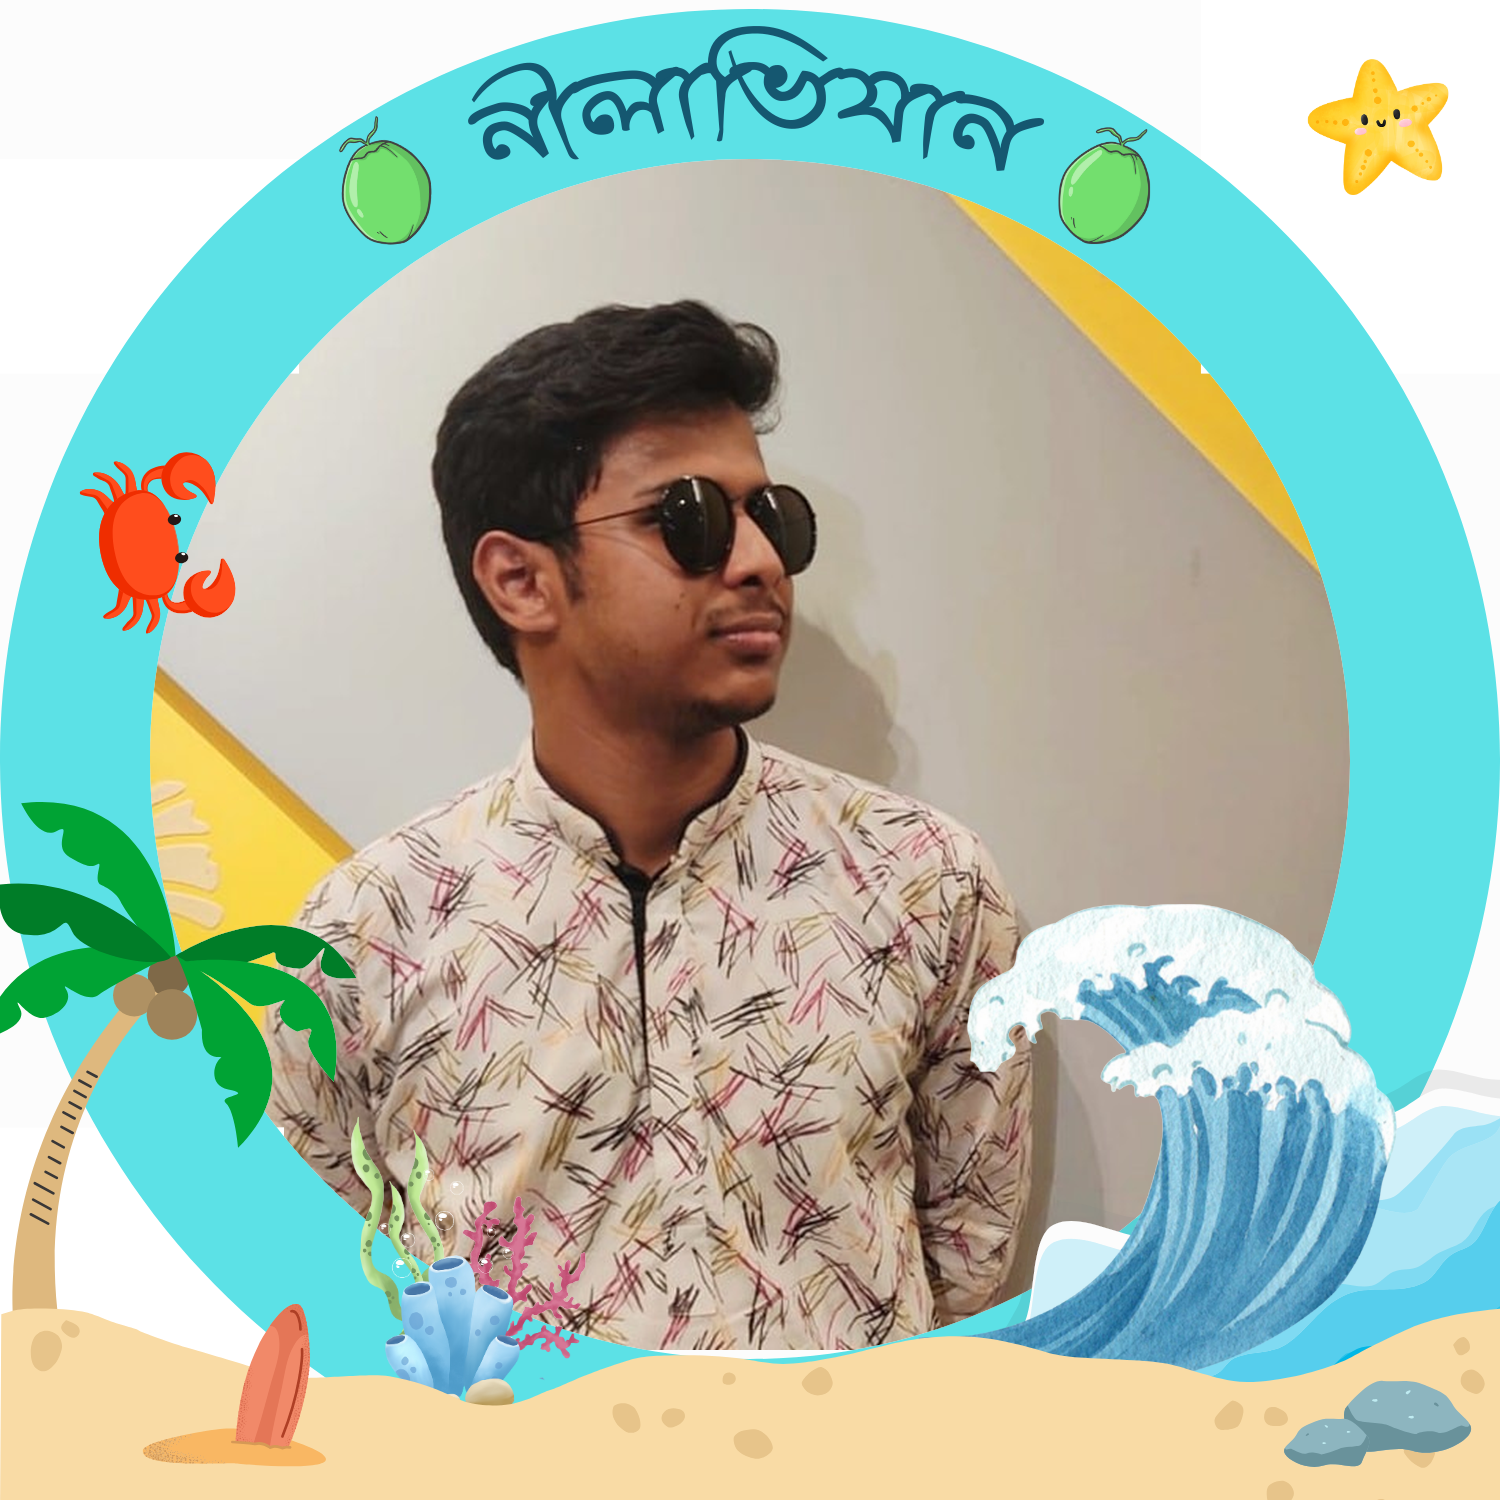
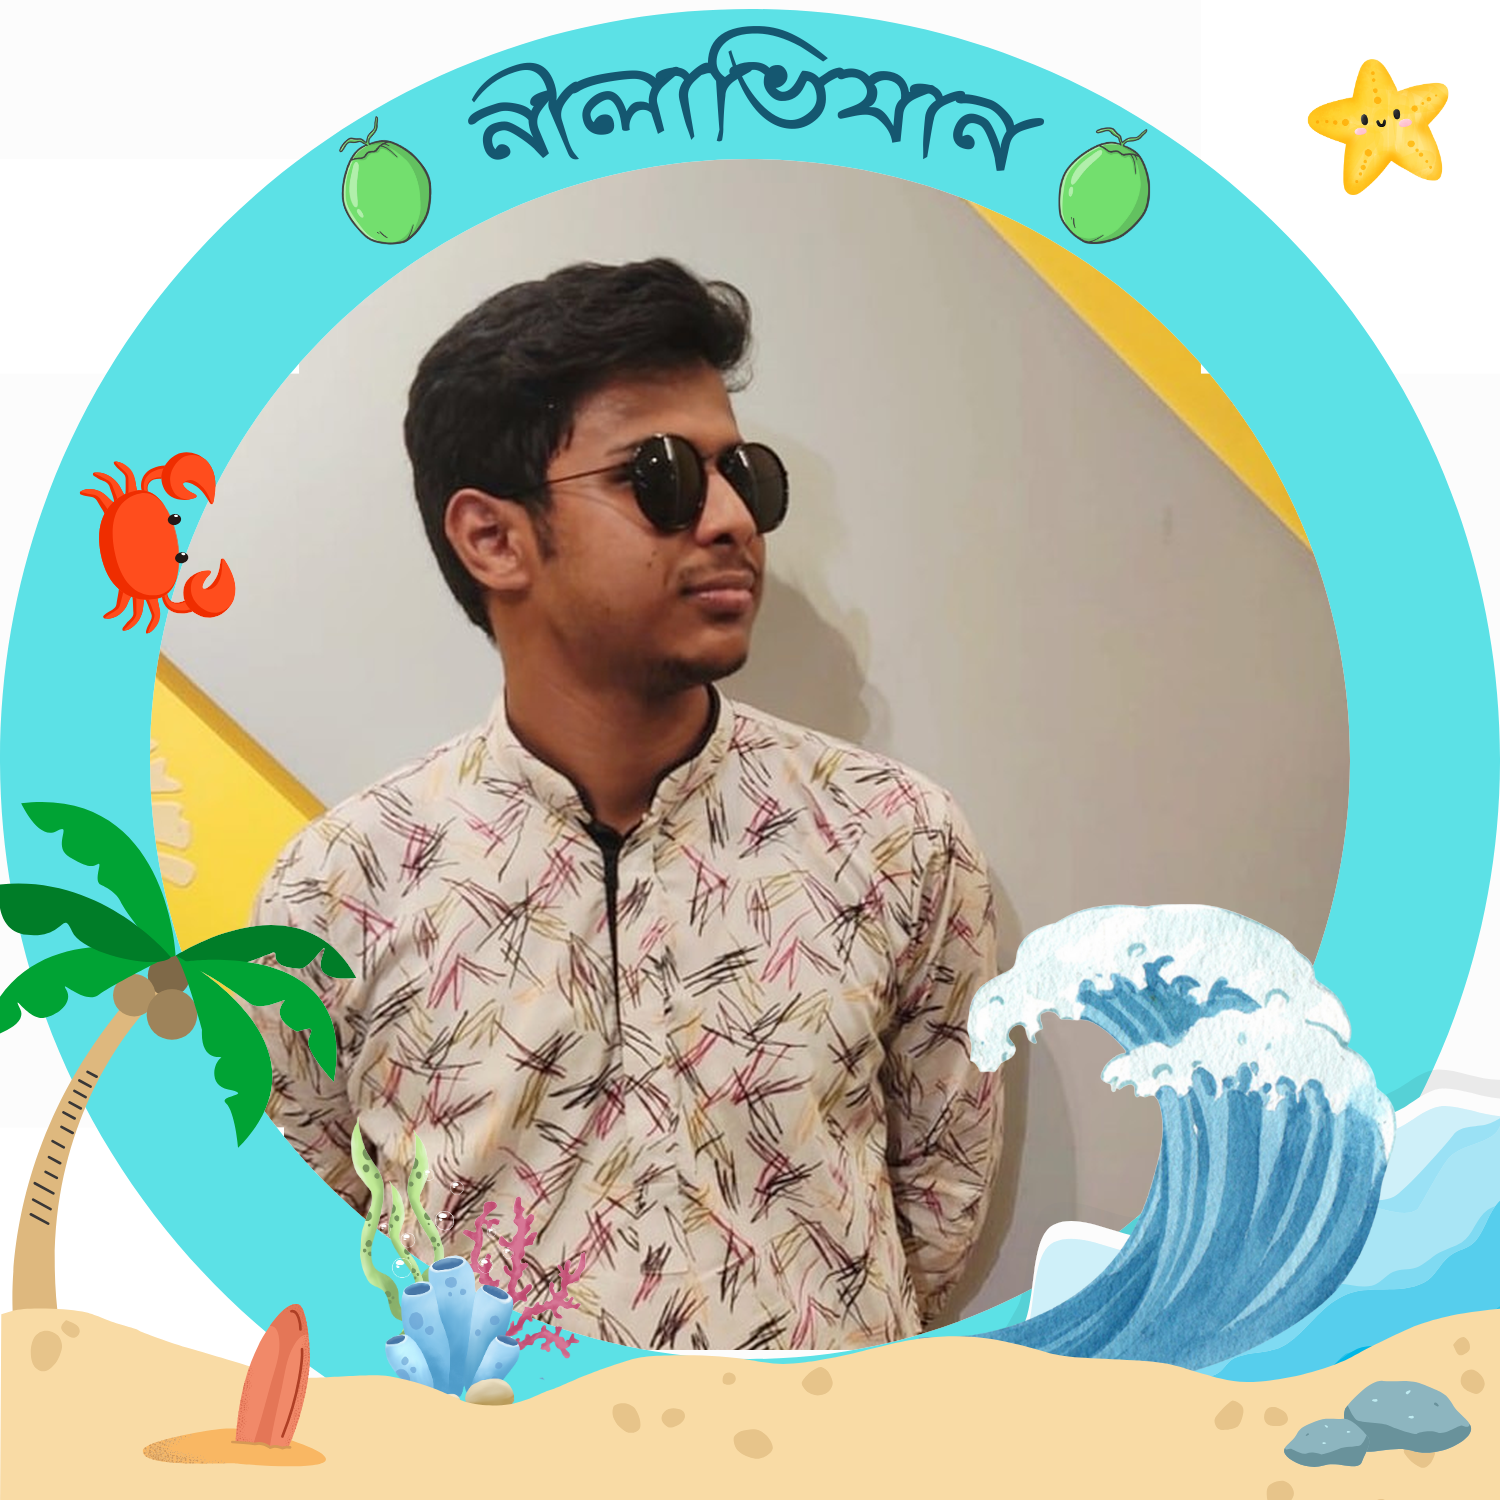
Pixel made ok

Changed region(s): [[0.092, 0.1533, 0.7053, 0.92], [0.6133, 0.1227, 0.8893, 0.368]]

diff --git a/templates/index.html b/templates/index.html
@@ -5,61 +5,165 @@
     <meta name="viewport" content="width=device-width, initial-scale=1.0">
     <title>Image Adjustment</title>
     <style>
+        * {
+            margin: 0;
+            padding: 0;
+            box-sizing: border-box;
+        }
+
+        body {
+            font-family: 'Arial', sans-serif;
+            background-color: #f4f8fb;
+            color: #333;
+            padding: 20px;
+        }
+
+        h1 {
+            text-align: center;
+            color: #1a73e8;
+            margin-bottom: 20px;
+        }
+
+        form {
+            display: flex;
+            justify-content: center;
+            gap: 10px;
+            margin-bottom: 20px;
+        }
+
+        form input[type="file"] {
+            padding: 10px;
+            border: 2px solid #1a73e8;
+            border-radius: 5px;
+            cursor: pointer;
+        }
+
+        form button {
+            background-color: #1a73e8;
+            color: white;
+            padding: 10px 20px;
+            border: none;
+            border-radius: 5px;
+            cursor: pointer;
+            font-size: 16px;
+        }
+
+        form button:hover {
+            background-color: #1558b3;
+        }
+
         #frame-container {
             position: relative;
             width: 500px;
             height: 500px;
-            margin: auto;
+            margin: 20px auto;
+            border: 2px solid #1a73e8;
+            border-radius: 10px;
+            overflow: hidden;
+            background-color: white;
+            box-shadow: 0 4px 6px rgba(0, 0, 0, 0.1);
         }
+
         #static-frame {
             position: absolute;
             top: 0;
             left: 0;
-            z-index: 2;
             width: 100%;
             height: 100%;
+            z-index: 2;
         }
+
         #uploaded-image {
             position: absolute;
             top: 0;
             left: 0;
-            z-index: 1;
             width: 100%;
             height: 100%;
+            z-index: 1;
+        }
+
+        .controls {
+            display: flex;
+            justify-content: center;
+            gap: 15px;
+            margin: 20px 0;
+        }
+
+        .controls button {
+            background-color: #1a73e8;
+            color: white;
+            padding: 10px 15px;
+            border: none;
+            border-radius: 5px;
+            cursor: pointer;
+            font-size: 16px;
+        }
+
+        .controls button:hover {
+            background-color: #1558b3;
+        }
+
+        .download-container {
+            text-align: center;
+        }
+
+        .download-container button {
+            background-color: #1a73e8;
+            color: white;
+            padding: 10px 20px;
+            border: none;
+            border-radius: 5px;
+            cursor: pointer;
+            font-size: 16px;
+        }
+
+        .download-container button:hover {
+            background-color: #1558b3;
         }
     </style>
 </head>
 <body>
     <h1>Image Adjustment</h1>
+
     <form method="post" enctype="multipart/form-data">
-        <label>Upload your image:</label>
         <input type="file" name="file" required>
         <button type="submit">Upload</button>
     </form>
+
     {% if uploaded_image %}
     <div id="frame-container">
         <img id="static-frame" src="/static/Frammed_image.png" alt="Frame">
         <img id="uploaded-image" src="/static/uploads/{{ uploaded_image }}" alt="Uploaded Image">
     </div>
-    <div>
-        <button onclick="adjustImage()">Adjust</button>
+
+    <div class="controls">
+        <button onclick="moveImage('up')">Up</button>
+        <button onclick="moveImage('left')">Left</button>
+        <button onclick="moveImage('right')">Right</button>
+        <button onclick="moveImage('down')">Down</button>
+    </div>
+
+    <div class="download-container">
+        <button onclick="adjustImage()">Save Adjustments</button>
         <a href="/download"><button>Download</button></a>
     </div>
     {% endif %}
+
     <script>
         let offsetX = 0, offsetY = 0;
         const uploadedImage = document.getElementById('uploaded-image');
 
-        function adjustImage() {
-            // Allow adjustments with arrow keys
-            document.addEventListener('keydown', (e) => {
-                if (e.key === 'ArrowUp') offsetY -= 5;
-                if (e.key === 'ArrowDown') offsetY += 5;
-                if (e.key === 'ArrowLeft') offsetX -= 5;
-                if (e.key === 'ArrowRight') offsetX += 5;
-                uploadedImage.style.transform = `translate(${offsetX}px, ${offsetY}px)`;
-            });
+        function moveImage(direction) {
+            const step = 1;
+            if (direction === 'up') offsetY -= step;
+            if (direction === 'down') offsetY += step;
+            if (direction === 'left') offsetX -= step;
+            if (direction === 'right') offsetX += step;
 
+            uploadedImage.style.transform = `translate(${offsetX}px, ${offsetY}px)`;
+        }
+
+        function adjustImage() {
             fetch('/adjust', {
                 method: 'POST',
                 headers: { 'Content-Type': 'application/json' },

diff --git a/backend.py b/backend.py
@@ -32,34 +32,64 @@ def adjust():
     image_path = os.path.join(UPLOAD_FOLDER, data["uploaded_image"])
     output_path = os.path.join(OUTPUT_FOLDER, "output.png")
 
-    frame_image = Image.open(STATIC_FRAME).convert("RGBA")
-    user_image = Image.open(image_path).convert("RGBA")
+    try:
+        # Load frame and user images
+        frame_image = Image.open(STATIC_FRAME).convert("RGBA")
+        user_image = Image.open(image_path).convert("RGBA")
 
-    # Resize user image to fit the frame dimensions
-    user_image = user_image.resize(frame_image.size, Image.Resampling.LANCZOS)
+        # Resize user image to match the frame dimensions
+        user_image = user_image.resize(frame_image.size, Image.Resampling.LANCZOS)
 
-    # Get adjustment offsets
-    offset_x = int(data.get("offsetX", 0))
-    offset_y = int(data.get("offsetY", 0))
+        # Get adjustment offsets
+        offset_x = int(data.get("offsetX", 0))*2
+        offset_y = int(data.get("offsetY", 0))*2
+        if offset_x > 0:
+            offset_x += 8
+        elif offset_x < 0:
+            offset_x -= 8
 
-    # Create a blank canvas with the same size as the frame
-    combined = Image.new("RGBA", frame_image.size)
+        if offset_y > 0:
+            offset_y += 8
+        elif offset_y < 0:
+            offset_y -= 8
+        # Create a blank canvas with transparency
+        combined = Image.new("RGBA", frame_image.size, (255, 255, 255, 0))
 
-    # Paste the user image at the adjusted position
-    combined.paste(user_image, (offset_x, offset_y), user_image)
+        # Paste the user image at the adjusted position
+        combined.paste(user_image, (offset_x, offset_y), user_image)
 
-    # Overlay the frame on top
-    combined.paste(frame_image, (0, 0), frame_image)
+        # Overlay the frame on top
+        combined.paste(frame_image, (0, 0), frame_image)
 
-    # Save the final combined image
-    combined.save(output_path, "PNG")
+        # Placeholder: Trigger a popup on the front-end here
+        # Example: Call a JavaScript function to show a "Saving..." message
 
-    return {"output_image": "/" + output_path}
+        if os.path.exists(output_path):
+            os.remove(output_path)
+            print(f"{output_path} has been deleted.")
+        else:
+            print(f"{output_path} does not exist.")
+        # Save the final combined image
+        combined.save(output_path, "PNG")
+
+        # Debugging info
+        print(f"Offsets: X={offset_x}, Y={offset_y}")
+        print(f"Output saved at: {output_path}")
+
+        return {"success": True, "output_image": "/" + output_path}
+    except Exception as e:
+        print(f"Error during adjustment: {e}")
+        return {"success": False, "error": str(e)}
+
+
+
 
 @app.route("/download")
 def download():
     output_path = os.path.join(OUTPUT_FOLDER, "output.png")
+    print(output_path)
+    if not os.path.exists(output_path):
+        return "No adjusted image available for download."
     return send_file(output_path, as_attachment=True)
-
 if __name__ == "__main__":
     app.run(debug=True)

diff --git a/test.py b/test.py
@@ -1,0 +1,29 @@
+from PIL import Image
+
+# Open the base and overlay images
+base_img = Image.open('test_image_directory/original_image.png').convert('RGBA')
+combined = Image.open('test_image_directory/White screen.png').convert('RGBA')
+overlay_img = Image.open('test_image_directory/Frammed_image.png').convert('RGBA')
+import os
+
+# combined.paste(overlay_img, position, overlay_img)
+# Convert the overlay image to RGBA mode
+
+# base_img = base_img.resize(overlay_img.size, Image.Resampling.LANCZOS)
+
+# Define the position where the overlay image will be pasted
+position = (1000, 50)
+
+# Overlay the image over base image
+combined.paste(base_img, position, base_img)
+# combined.paste(overlay_img, (0, 0), overlay_img)
+file_path = 'overlayed_image.png'
+
+# Check if the file exists before deleting
+if os.path.exists(file_path):
+    os.remove(file_path)
+    print(f"{file_path} has been deleted.")
+else:
+    print(f"{file_path} does not exist.")
+# Save the resulting image
+combined.save(file_path,'PNG')
